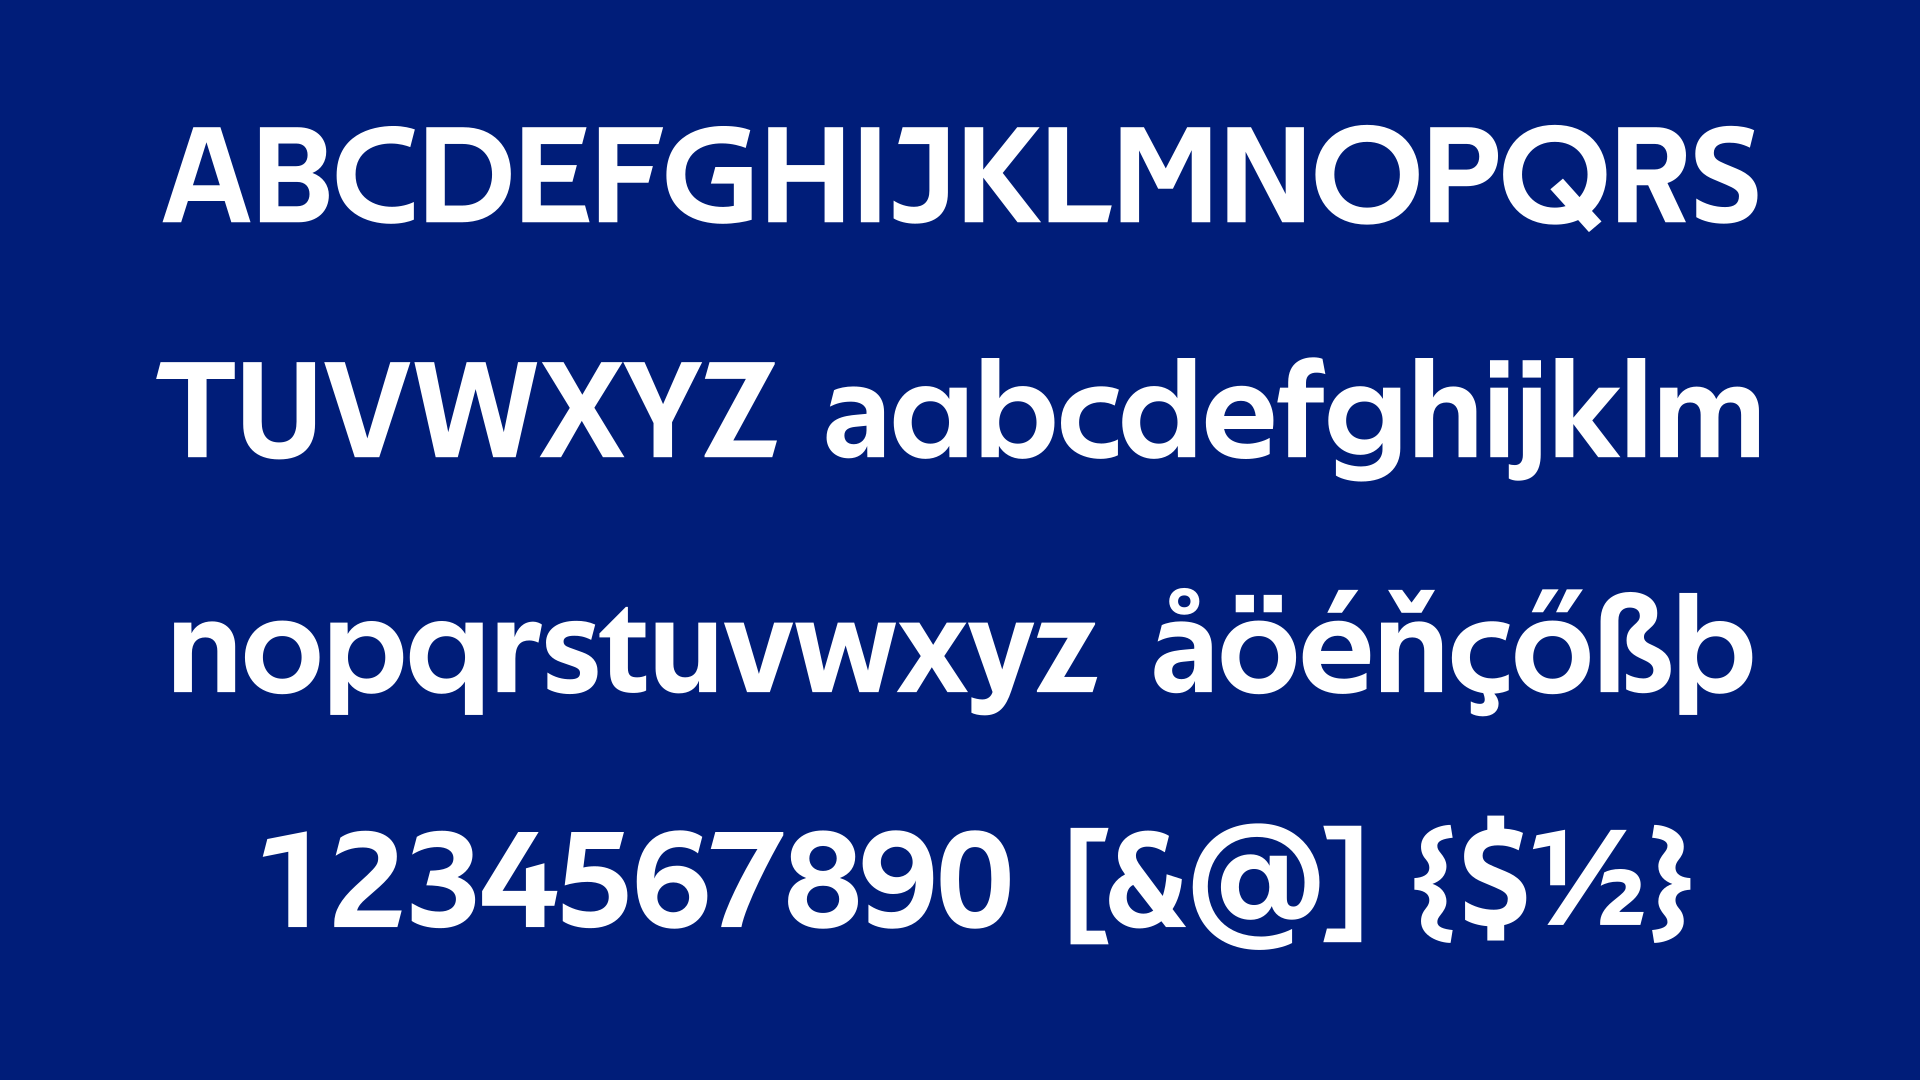
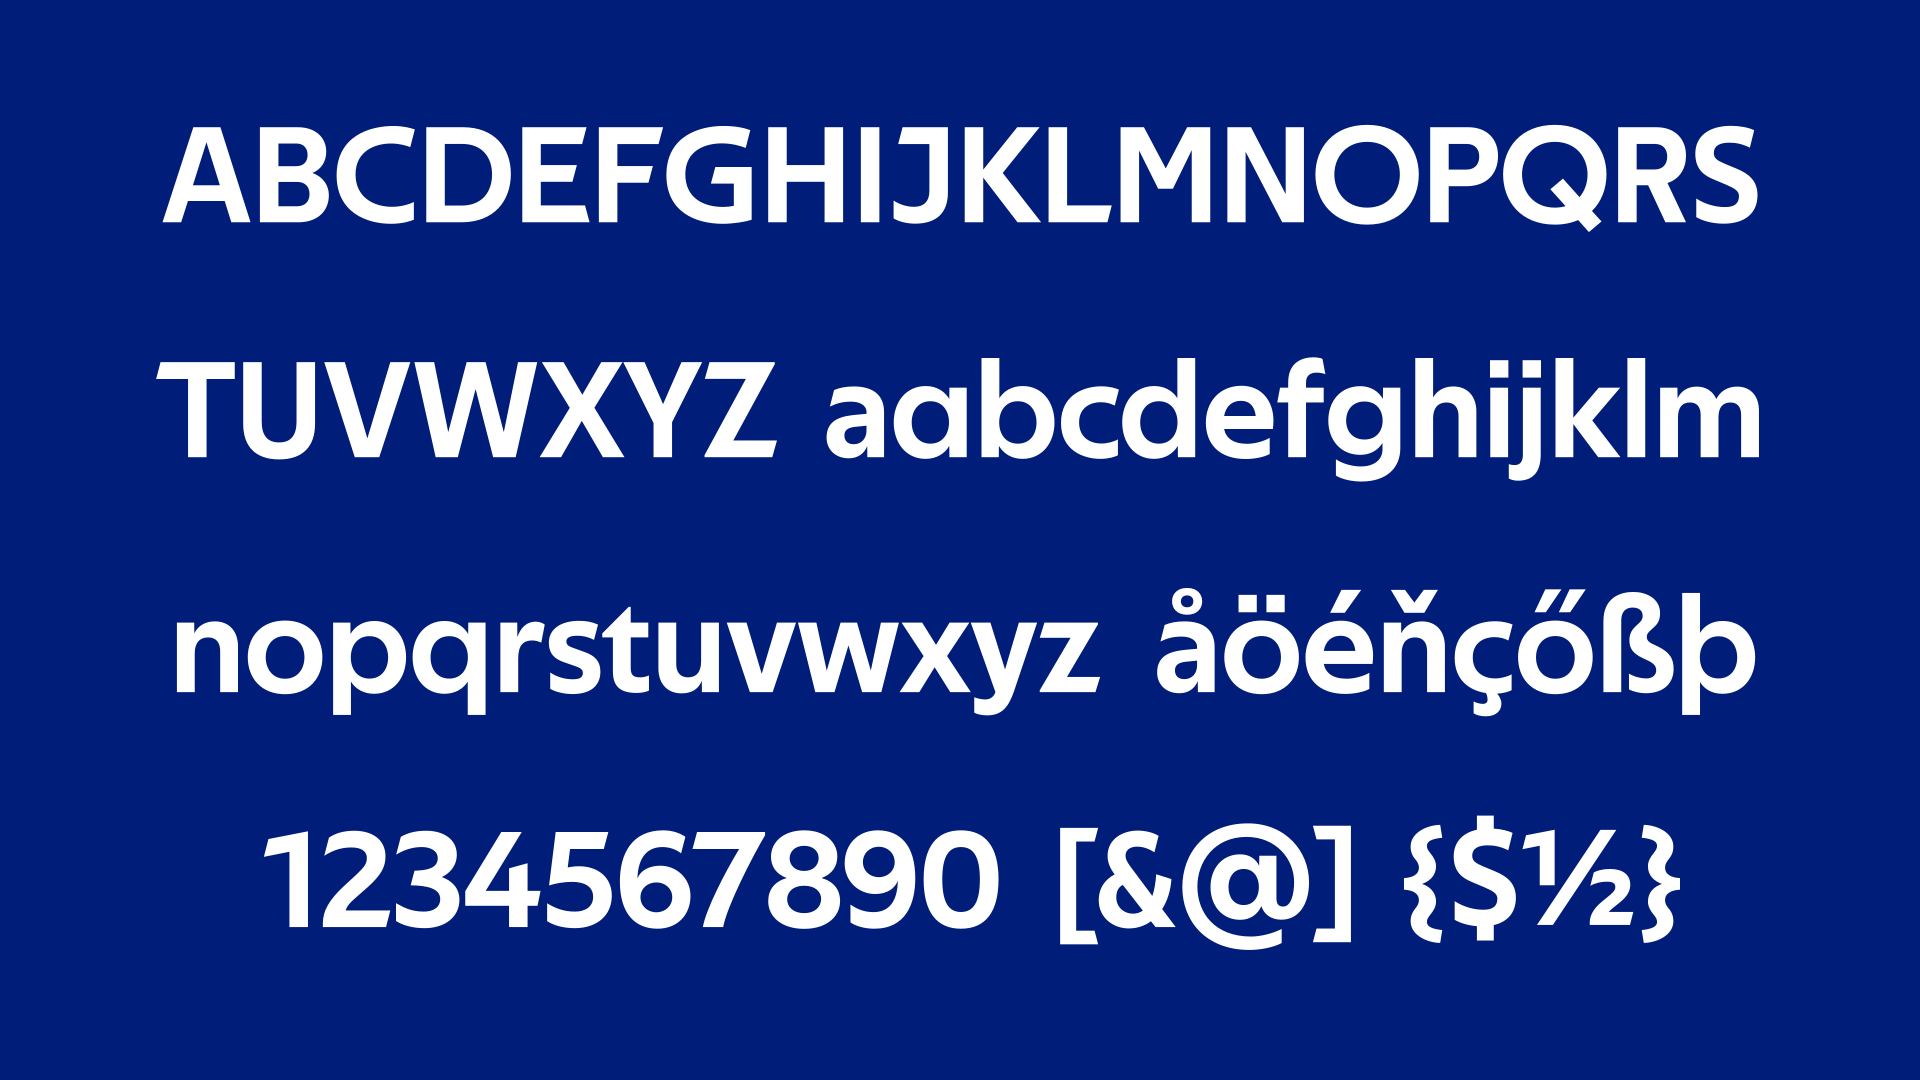
Add proportional numbers

Changed region(s): [[0.1562, 0.7639, 0.875, 0.8861], [0.0938, 0.5806, 0.5625, 0.6722], [0.5938, 0.55, 0.9062, 0.6417]]

diff --git a/main.js b/main.js
@@ -83,6 +83,7 @@ var ss01 = JSON.parse(localStorage.getItem('ss01'));
 var ss02 = JSON.parse(localStorage.getItem('ss02'));
 var ss03 = JSON.parse(localStorage.getItem('ss03'));
 var ss04 = JSON.parse(localStorage.getItem('ss04'));
+var pnum = JSON.parse(localStorage.getItem('pnum'));
 
 if (ss01) {
   ss01 = false;
@@ -100,38 +101,49 @@ if (ss04) {
   ss04 = false;
   toggleSs04();
 }
+if (pnum) {
+  pnum = false;
+  togglePnum();
+}
 document.querySelector('#ss01-button').addEventListener('click', toggleSs01);
 document.querySelector('#ss02-button').addEventListener('click', toggleSs02);
 document.querySelector('#ss03-button').addEventListener('click', toggleSs03);
 document.querySelector('#ss04-button').addEventListener('click', toggleSs04);
+document.querySelector('#pnum-button').addEventListener('click', togglePnum);
 
 function toggleSs01() {
   ss01 = !ss01;
   localStorage.setItem('ss01', ss01);
-  updateSsxx();
+  updateFontFeatureSettings();
 }
 function toggleSs02() {
   ss02 = !ss02;
   localStorage.setItem('ss02', ss02);
-  updateSsxx();
+  updateFontFeatureSettings();
 }
 function toggleSs03() {
   ss03 = !ss03;
   localStorage.setItem('ss03', ss03);
-  updateSsxx();
+  updateFontFeatureSettings();
 }
 function toggleSs04() {
   ss04 = !ss04;
   localStorage.setItem('ss04', ss04);
-  updateSsxx();
+  updateFontFeatureSettings();
+}
+function togglePnum() {
+  pnum = !pnum;
+  localStorage.setItem('pnum', pnum);
+  updateFontFeatureSettings();
 }
 
-function updateSsxx() {
+function updateFontFeatureSettings() {
   var values = [];
   if (ss01) values.push("'ss01'");
   if (ss02) values.push("'ss02'");
   if (ss03) values.push("'ss03'");
   if (ss04) values.push("'ss04'");
+  if (pnum) values.push("'pnum'");
   document.body.style.fontFeatureSettings = values.join(',');
 }
 

diff --git a/index.html b/index.html
@@ -14,6 +14,7 @@
   <button class="button settings-bar__button" id="ss02-button">ss02</button>
   <button class="button settings-bar__button" id="ss03-button">ss03</button>
   <button class="button settings-bar__button" id="ss04-button">ss04</button>
+  <button class="button settings-bar__button" id="pnum-button">pnum</button>
   <input id="fg-color" class="color-input settings-bar__color-input">
   <input id="bg-color" class="color-input settings-bar__color-input">
 </div>
